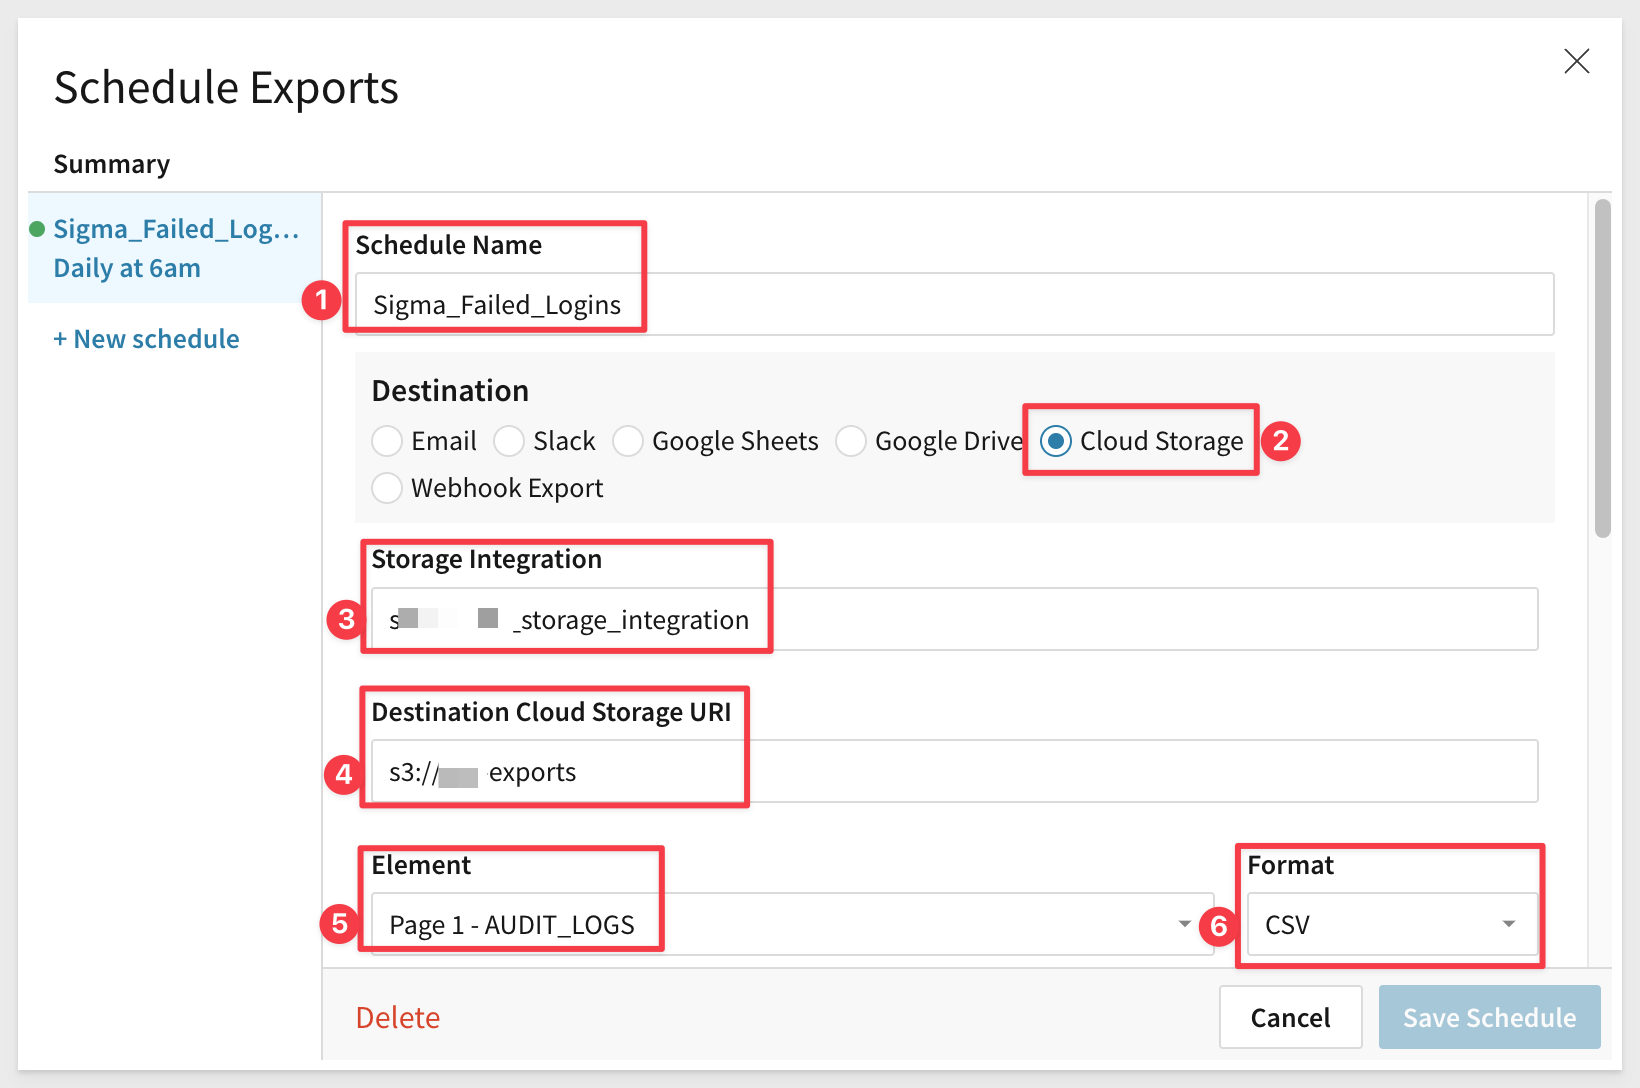
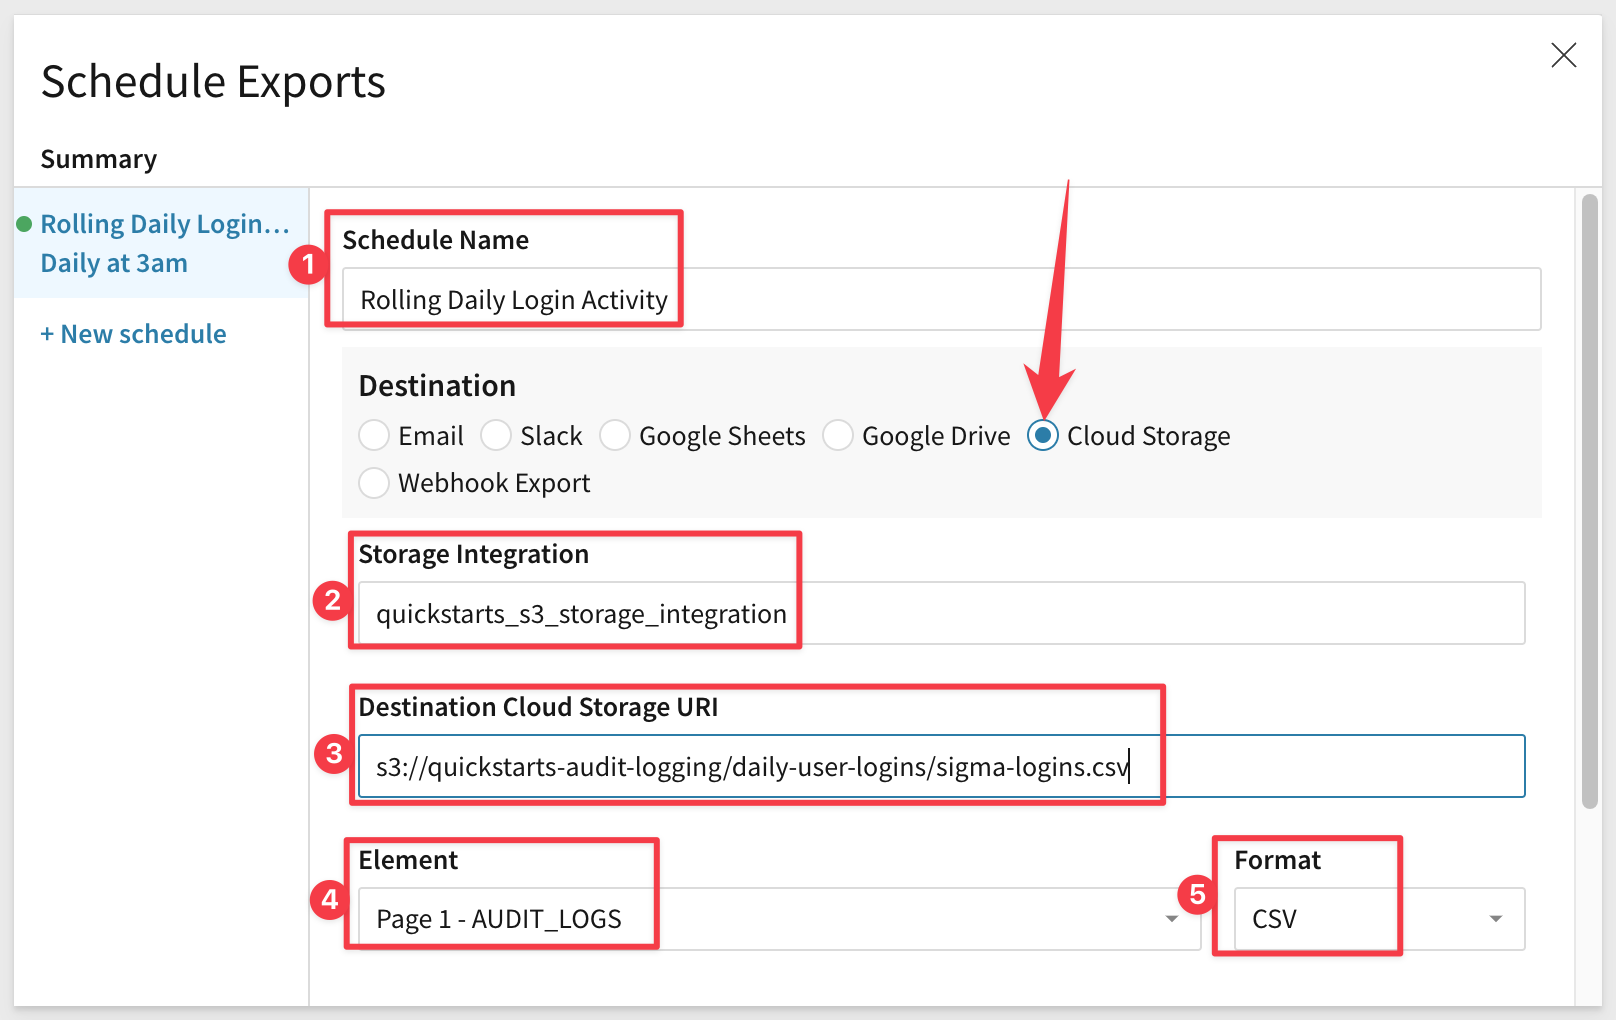
in process

Changed region(s): [[0.0, 0.0608, 0.9901, 1.0], [0.9592, 0.0304, 1.0, 0.1824], [0.0, 0.3039, 0.1547, 0.3343]]

diff --git a/site/sigmaguides/src/administration_audit_logging/administration_audit_logging.md b/site/sigmaguides/src/administration_audit_logging/administration_audit_logging.md
@@ -201,19 +201,11 @@ There may be reasons to store Audit Log data outside of Sigma. A few examples ar
       <li><strong>To meet governance requirements:</strong> Any requirement that enforces direct control over logging activities.<li>
 </ul>
 
-Let's assume that we need to capture all events where a user login failed. 
+Let's assume that we are required to retain a rolling history of daily logins (success and failure) for 5 years. Sigma retains 90 days worth of information so we will need to export log data to meet this requirement.
 
-Building on the last exercise, we have most of what we need but need to remove all the logins that succeeded. This is easy with a filter.
+Building on the last exercise, we have what we need in the `Daily Login Activity` Workbook we built and just need to configure an export schedule to handle the rest.
 
-Click on the column `Event Status` and set a filter to only show `Event Status` of `Failure`:
-
-<img src="assets/al6.png" width="800"/>
-
-Save the Workbook as `User Login Failures`:
-
-<img src="assets/al7.png" width="800"/>
-
-Now let's prepare our scheduled export:
+Click the report name and select `Schedule exports`:
 
 <img src="assets/al8.png" width="800"/>
 
@@ -225,29 +217,43 @@ Provide values for each numbered item as shown:
 
 For `Storage Integration` we will be using a method that provides a secure connection between Snowflake (where the Audit Log export is staged) to AWS S3.
 
+In general, it requires three things; an AWS S3 bucket (in our example), AWS IAM Policy and Snowflake Storage integration.
+
+
+bullet list?
+
+
+
+
+
+
 [For more information on how to configure secure access to S3 from Snowflake, click here](https://docs.snowflake.com/en/user-guide/data-load-s3-config)
 
 For `Destination Cloud Storage URI`, use the link to `Copy S3 URI` in AWS S3 to get this string:
 
 <img src="assets/al11.png" width="800"/>
 
+Once we have the S3 URI and IAM Policy, we can use them to create a Snowflake Storage Integration.
+
+
+
+
+
 We will use the Sigma Workbook Page Element and .csv format for the export.
 
 Scrolling down, we want each export to use the current date/time in the filename. The rest of this schedule is up to you. For demonstration, we will invoke this job to `Run now` so we can see the results land in S3. 
 
+<img src="assets/al23.png" width="800"/>
+
 Click `Save Schedule`.
 
-<img src="assets/al9.png" width="800"/>
-s3://sigma-quickstarts-main/audit_logs/
+Open the scheduled job and click `Run now`:
 
+<img src="assets/al24.png" width="800"/>
 
+If everything is configured correctly, the file lands in S3 for extended retention as a comma delimited format:
 
-
-
-
-
-
-
+<img src="assets/al25.png" width="800"/>
 
 ![Footer](assets/sigma_footer.png)
 <!-- END OF SECTION-->
